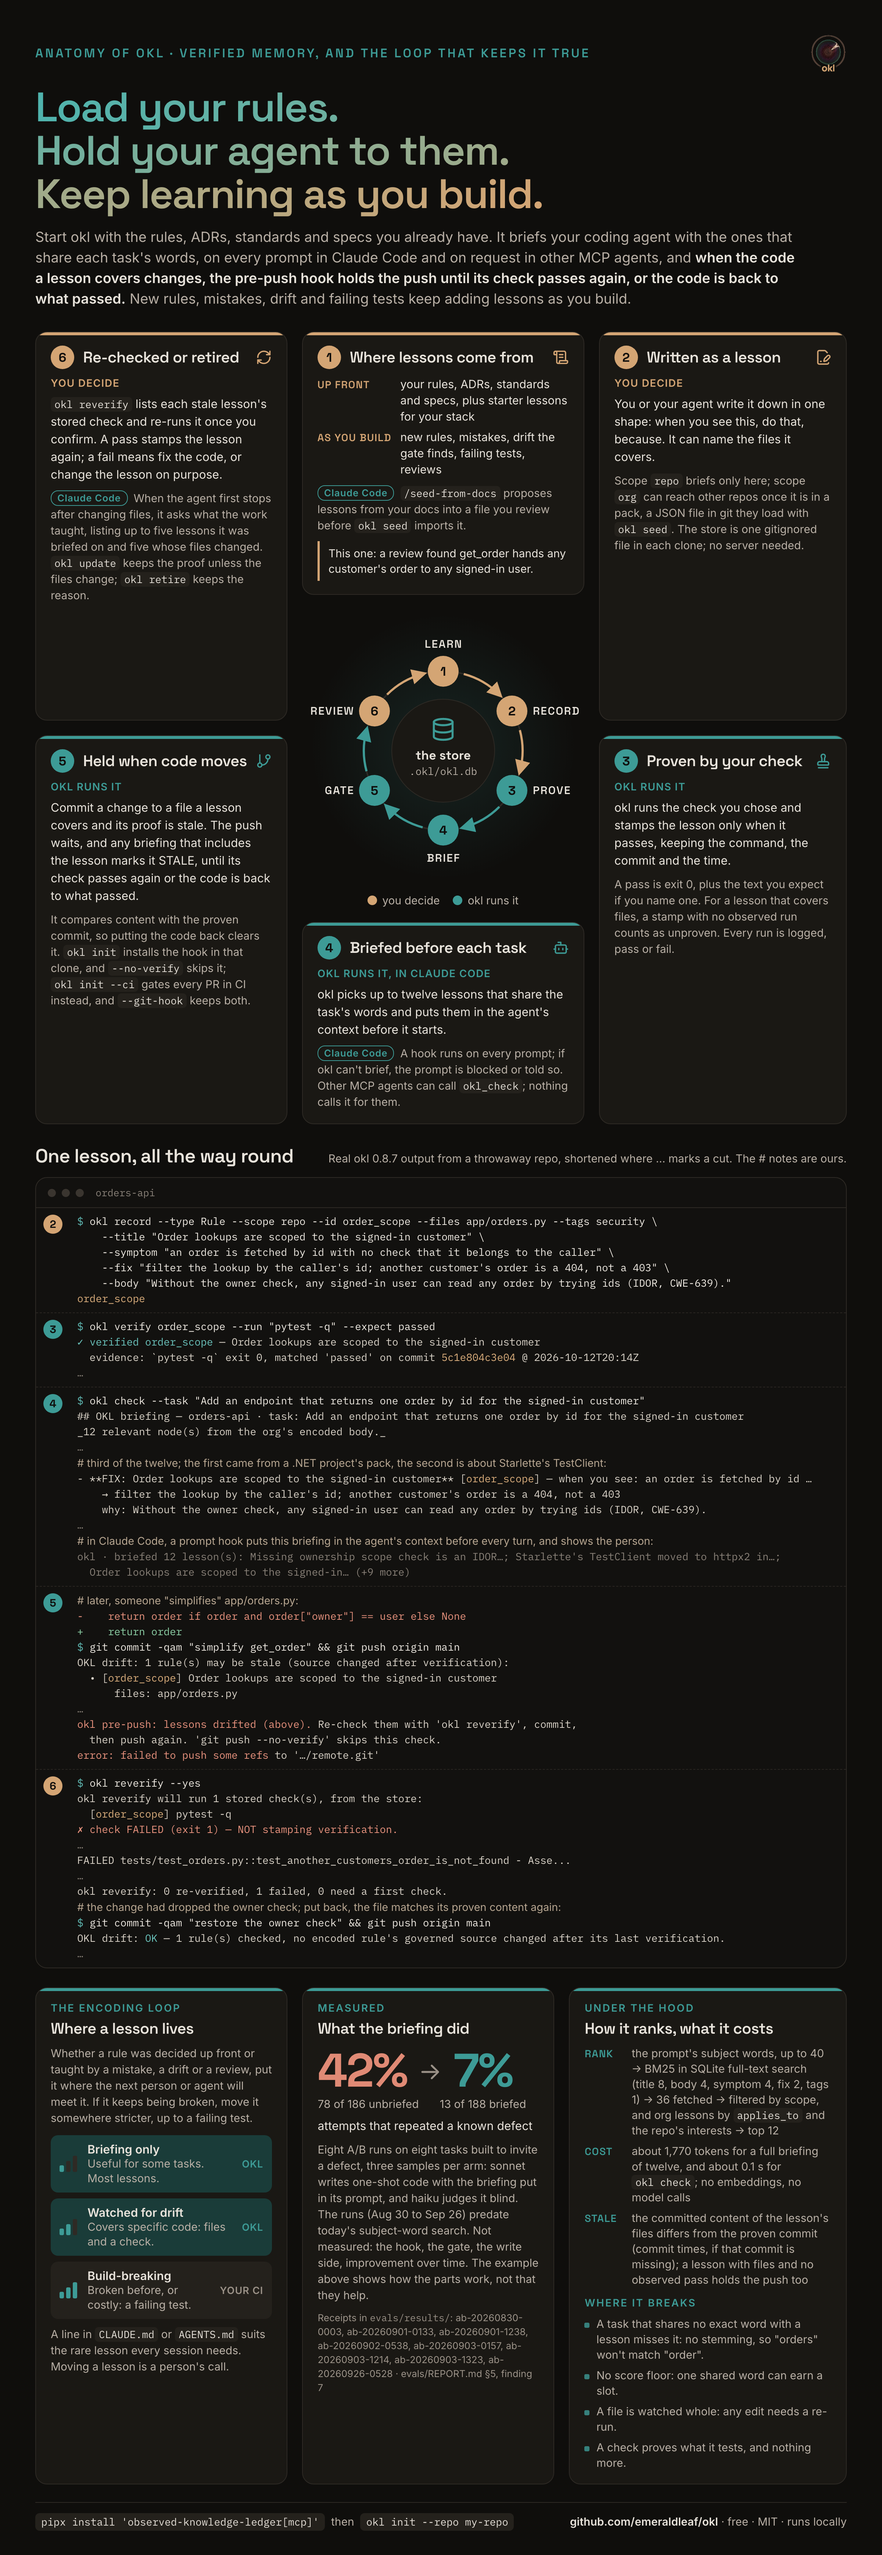
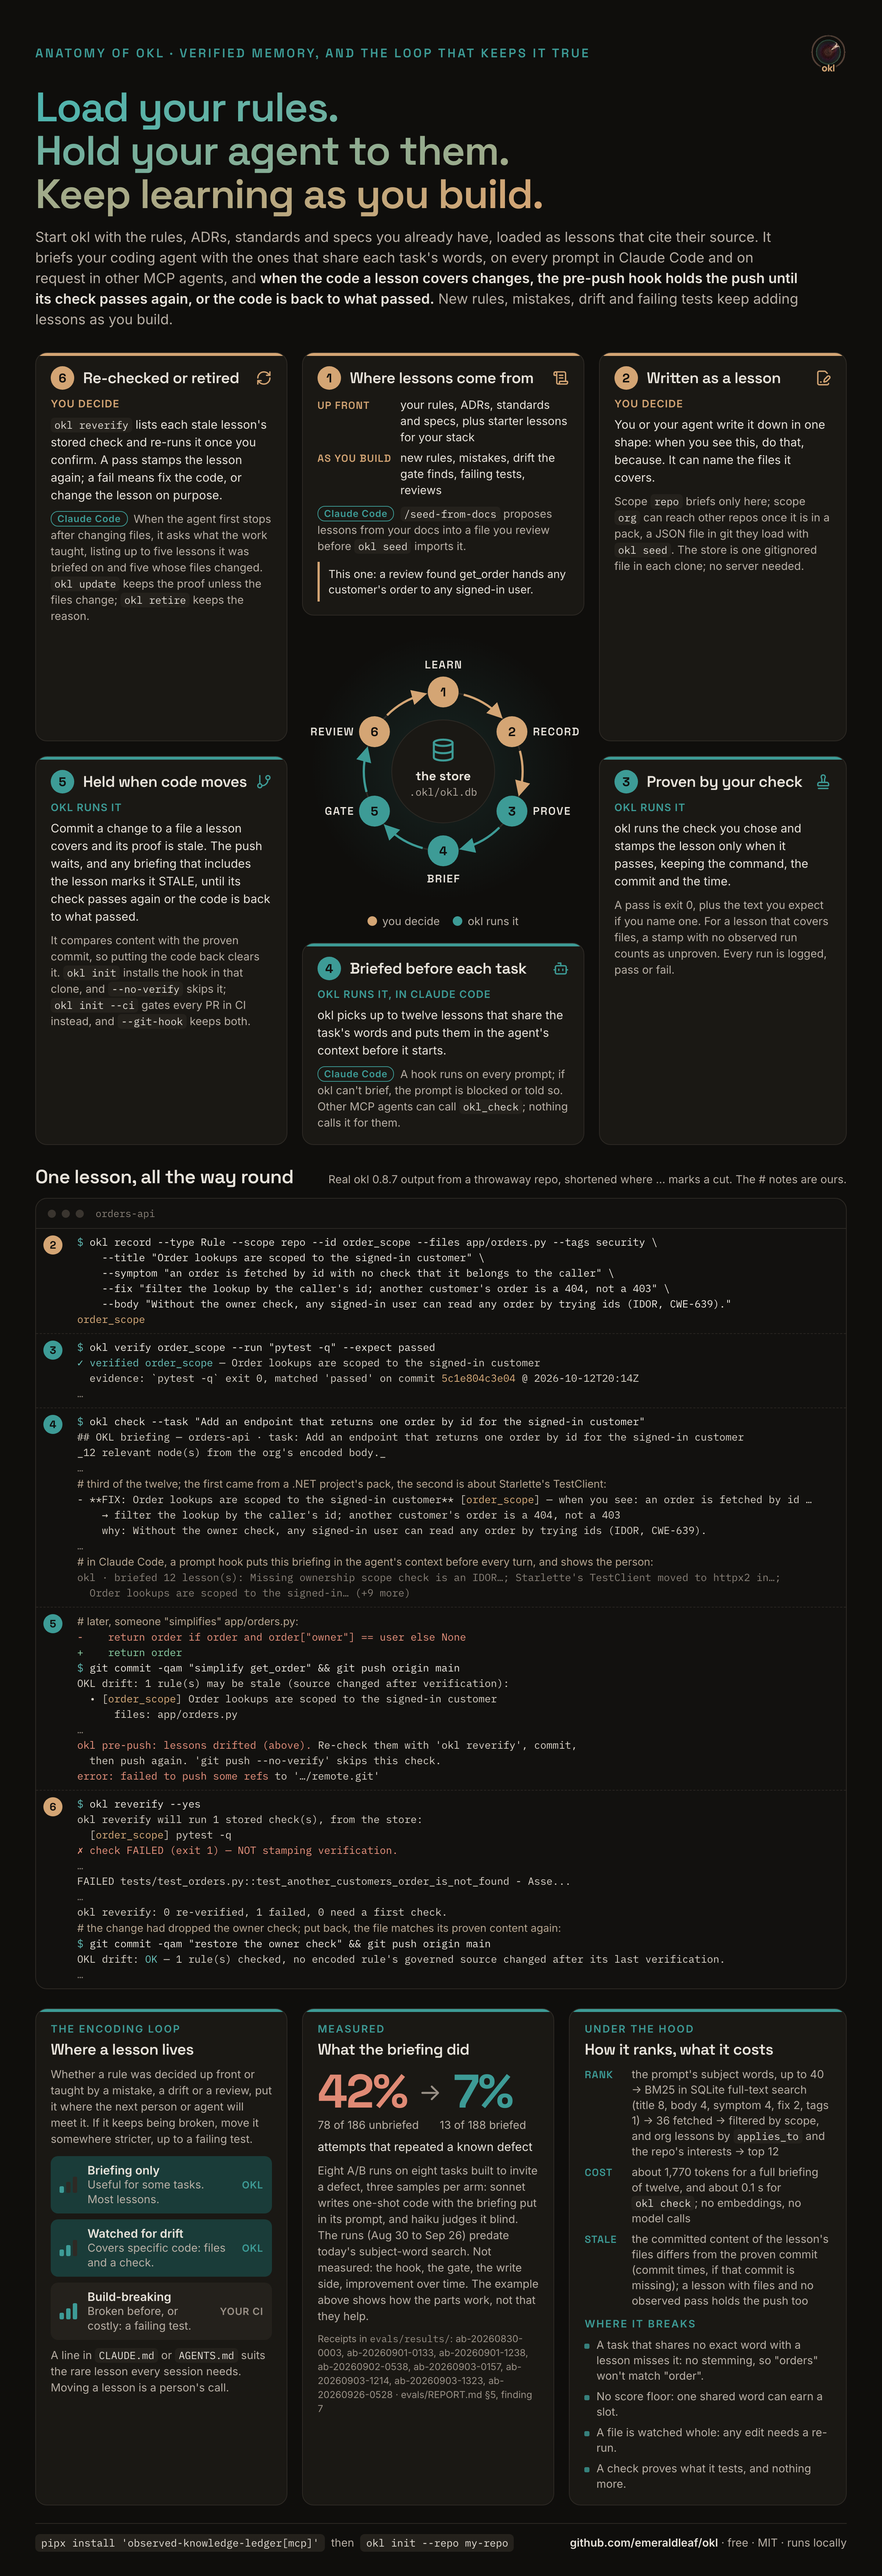
Anatomy: the rules you already have are loaded as lessons that cite their source
The sheet's first sentence read as if okl briefs from the documents directly; panel 1
says the loading step, but a reader who stops at the intro missed it.

diff --git a/docs/overview/okl-anatomy.html b/docs/overview/okl-anatomy.html
@@ -175,7 +175,7 @@ footer b { color: var(--text); font-weight: 600; }
       </div>
     </div>
     <h1><span class="grad">Load your rules.<br>Hold your agent to them.<br>Keep learning as you build.</span></h1>
-    <p class="sub">Start okl with the rules, ADRs, standards and specs you already have. It briefs your coding agent with the ones that share each task's words, on every prompt in Claude Code and on request in other MCP agents, and <b>when the code a lesson covers changes, the pre-push hook holds the push until its check passes again, or the code is back to what passed.</b> New rules, mistakes, drift and failing tests keep adding lessons as you build.</p>
+    <p class="sub">Start okl with the rules, ADRs, standards and specs you already have, loaded as lessons that cite their source. It briefs your coding agent with the ones that share each task's words, on every prompt in Claude Code and on request in other MCP agents, and <b>when the code a lesson covers changes, the pre-push hook holds the push until its check passes again, or the code is back to what passed.</b> New rules, mistakes, drift and failing tests keep adding lessons as you build.</p>
   </header>
 
   <section class="anatomy">
